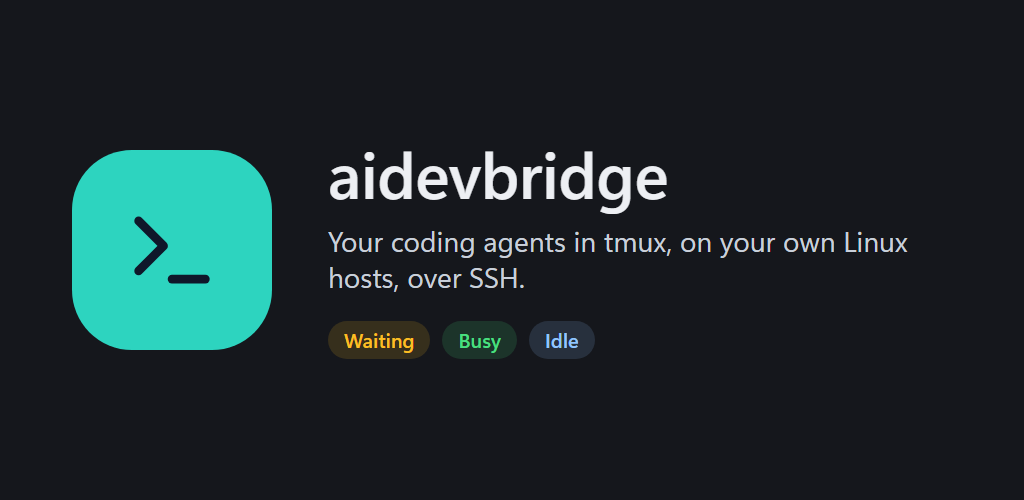
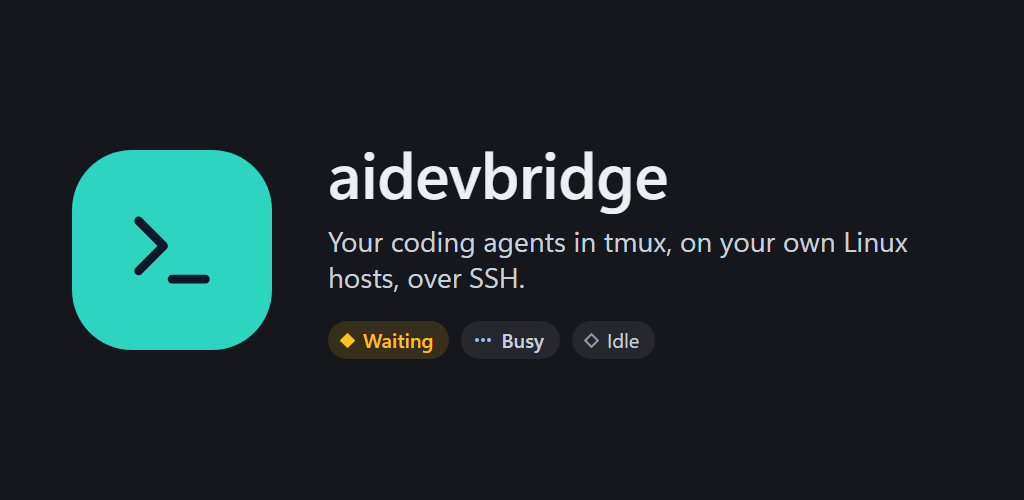
docs(images): the store feature graphic follows the new status display
`fastlane/store-graphics/feature-graphic.html` drew "Busy" in green and
"Idle" in blue, like the two README templates before this release.
Only "Waiting" is tinted now; "Busy" and "Idle" stand on the neutral
chip with a blue and a gray glyph. Rendered with
`scripts/android-store-graphics.ps1` for both store languages; the icon
is unchanged.

`docs/stand.md`: the review before PR #59 gave its findings no
severity, so the entry no longer claims one.

Changed region(s): [[0.3125, 0.63, 0.625, 0.72]]

diff --git a/fastlane/store-graphics/feature-graphic.html b/fastlane/store-graphics/feature-graphic.html
@@ -18,10 +18,16 @@
   h1 { margin: 0; font-size: 64px; line-height: 1; font-weight: 600; letter-spacing: -0.5px; }
   p { margin: 0; font-size: 28px; line-height: 1.3; color: #C9D0DA; max-width: 600px; }
   .pills { display: flex; gap: 12px; margin-top: 8px; }
-  .pill { font-size: 20px; line-height: 1; padding: 9px 16px; border-radius: 999px; font-weight: 600; }
+  /* Wie die Statusanzeige der App (Spec vom 14.11.2026): getoent ist nur
+     "Waiting"; "Busy" und "Idle" stehen neutral, ihr Zeichen traegt die Farbe. */
+  .pill { display: inline-flex; align-items: center; gap: 10px; font-size: 20px; line-height: 1; padding: 9px 16px 9px 14px; border-radius: 999px; font-weight: 600; }
+  .pill i { display: block; box-sizing: border-box; flex: none; }
   .waiting { background: rgba(251, 191, 36, 0.15); color: #FBBF24; }
-  .busy { background: rgba(74, 222, 128, 0.15); color: #4ADE80; }
-  .idle { background: rgba(147, 197, 253, 0.15); color: #93C5FD; }
+  .waiting i { width: 11px; height: 11px; border-radius: 1px; background: #FBBF24; transform: rotate(45deg); }
+  .busy, .idle { background: rgba(255, 255, 255, 0.07); color: #C9D0DA; }
+  .busy i { width: 4px; height: 4px; margin: 0 6px; border-radius: 50%; background: #93C5FD; box-shadow: -6px 0 0 #93C5FD, 6px 0 0 #93C5FD; }
+  .idle { font-weight: 400; }
+  .idle i { width: 11px; height: 11px; border: 2px solid #939CAA; border-radius: 1px; transform: rotate(45deg); }
 </style>
 </head>
 <body>
@@ -36,9 +42,9 @@
     <h1>aidevbridge</h1>
     <p>Your coding agents in tmux, on your own Linux hosts, over SSH.</p>
     <div class="pills">
-      <span class="pill waiting">Waiting</span>
-      <span class="pill busy">Busy</span>
-      <span class="pill idle">Idle</span>
+      <span class="pill waiting"><i></i>Waiting</span>
+      <span class="pill busy"><i></i>Busy</span>
+      <span class="pill idle"><i></i>Idle</span>
     </div>
   </div>
 </body>

diff --git a/docs/stand.md b/docs/stand.md
@@ -165,8 +165,8 @@ Build-Provenienz an ihnen hängen.
 ## Letzte Prüfung
 
 Am 14.11.2026 nach 0.3.4, vor PR #59 (CHANGELOG `[0.3.5]`): eine Durchsicht
-des Branches mit den beiden Gestaltungsrunden, die nur las. Neun Funde, kein
-hoher. Fünf mit Effekt für Nutzer behebt derselbe PR: Strg+Umschalt+B nimmt
+des Branches mit den beiden Gestaltungsrunden, die nur las. Neun Funde. Fünf
+mit Effekt für Nutzer behebt derselbe PR: Strg+Umschalt+B nimmt
 den Fokus mit, wenn die Leiste verschwindet, in der er stand; Einstellungen
 aus der Symbolleiste geben ihn nicht an einen verborgenen Knopf zurück; ohne
 Symbolleiste steht der Einklappknopf nicht im Fuß; der Zähler der
